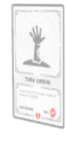
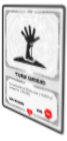
Add logic to show snackBar when cant add the item and change its color

diff --git a/lib/src/view/widgets/game_canvas/mini_game_canvas.dart b/lib/src/view/widgets/game_canvas/mini_game_canvas.dart
@@ -1,5 +1,9 @@
 import 'package:finding_mini_game/src/controllers/game_canvas/game_canvas_controller.dart';
+import 'package:finding_mini_game/src/controllers/game_canvas/game_canvas_states.dart';
+import 'package:finding_mini_game/src/controllers/inventory/inventory_controller.dart';
+import 'package:finding_mini_game/src/view/widgets/narrador_line_snack_bar.dart';
 import 'package:flutter/material.dart';
+import 'package:provider/provider.dart';
 import 'package:touchable/touchable.dart';
 
 class MiniGameCanvas extends CustomPainter {
@@ -37,6 +41,12 @@ class MiniGameCanvas extends CustomPainter {
       var collectible = controller.items[index];
       if (!collectible.show) return;
 
+      !context
+              .read<InventoryController>()
+              .requiredStateExists(collectible.requiredState)
+          ? paint.color = Colors.black45
+          : paint.color = Colors.white;
+
       var image = controller.images[collectible.image]!;
       canvas.drawImage(
         image,
@@ -47,8 +57,17 @@ class MiniGameCanvas extends CustomPainter {
         paint,
         onTapDown: (details) {
           print('Tap ${collectible.image}: ${details.localPosition}');
-          // showAlertDialog(Collectible(items.props), context);
+
           controller.onCanvasItemClick(collectible);
+          if (controller.state is GameCanvasCollectibleAddFailure) {
+            ScaffoldMessenger.of(context).showSnackBar(
+              showNarradorLine(
+                context: context,
+                text:
+                    'Esse item só pode ser liberado com um outro item chave', //TODO: add to Strings file
+              ),
+            );
+          }
         },
       );
     }

diff --git a/lib/src/controllers/game_manager/game_manager_controller.dart b/lib/src/controllers/game_manager/game_manager_controller.dart
@@ -23,6 +23,7 @@ class GameManagerController extends ValueNotifier<GameManagerState> {
   }
 
   void gameCompleted() {
+    //TODO: when adding the mini_game_package, implement this method
     if (inventoryCollectibleLenght == _inventoryMaxCapacity) {
       value = const GameManagerLevelComplete();
       return;
@@ -32,6 +33,7 @@ class GameManagerController extends ValueNotifier<GameManagerState> {
   }
 
   void gameExited() {
+    //TODO: when adding the mini_game_package, implement this method
     value = const GameManagerLevelExit();
   }
 }
